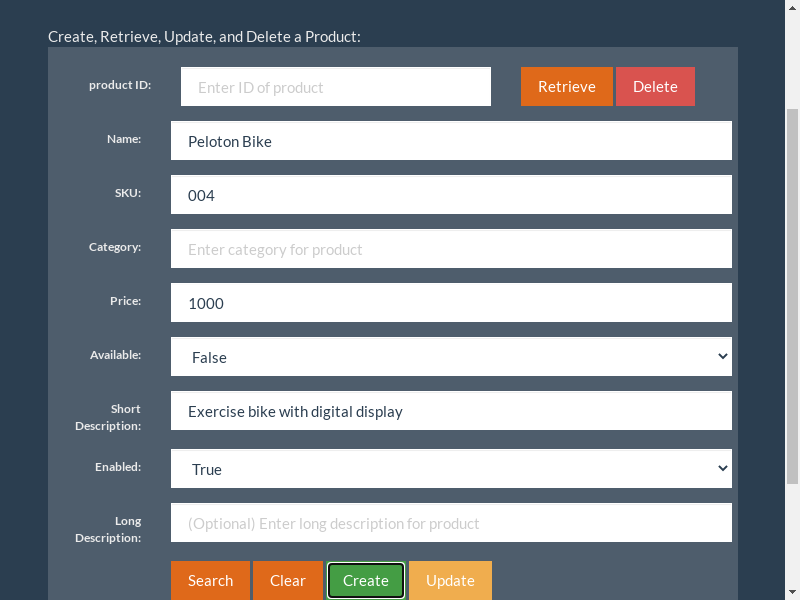
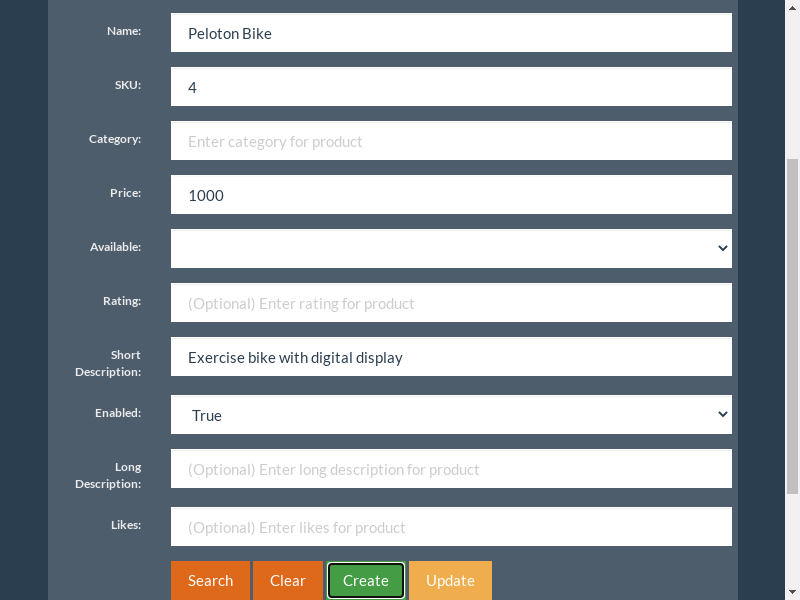
list and search BDD tests working

diff --git a/service/static/js/rest_api.js b/service/static/js/rest_api.js
@@ -14,6 +14,13 @@ $(function () {
         } else {
             $("#product_available").val("false");
         }
+        $("#product_sku").val(res.sku);
+        $("#product_short_description").val(res.short_description);
+        $("#product_available").val(res.available);
+        $("#product_price").val(res.price);
+        $("#product_rating").val(res.rating);
+        $("#product_long_description").val(res.long_description);
+        $("#product_likes").val(res.likes)
     }
 
     /// Clears all form fields
@@ -26,10 +33,10 @@ $(function () {
         $("#product_short_description").val("");
         $("#product_long_description").val("");
         $("#product_price").val("");
-        $("#product_rating").val("");
-        $("#product_stock_status").val("");
+        $("#product_rating").val(0);
+        $("#product_available").val("");
         $("#product_enabled").val("");
-        $("#product_likes").val("");
+        $("#product_likes").val(0);
     }
 
     // Updates the flash message area
@@ -51,7 +58,7 @@ $(function () {
         var long_description = $("#product_long_description").val();
         var price = $("#product_price").val();
         var rating = $("#product_rating").val();
-        var stock_status = $("#product_stock_status").val() == "true";
+        var available = $("#product_available").val() == "true";
         var enabled = $("#product_enabled").val() == "true";
         var likes = $("#product_likes").val();
 
@@ -62,10 +69,10 @@ $(function () {
             "short_description": short_description,
             "long_description": long_description,
             "price": price,
-            "rating": rating,
-            "stock_status": stock_status,
+            "rating": parseInt(rating),
+            "available": available,
             "enabled": enabled,
-            "likes": likes
+            "likes": parseInt(likes)
         };
 
         var ajax = $.ajax({
@@ -192,6 +199,7 @@ $(function () {
         var name = $("#product_name").val();
         var category = $("#product_category").val();
         var available = $("#product_available").val() == "true";
+        var rating = $("#product_rating").val();
 
         var queryString = ""
 
@@ -210,6 +218,13 @@ $(function () {
                 queryString += '&available=' + available
             } else {
                 queryString += 'available=' + available
+            }
+        }
+        if (rating) {
+            if (queryString.length > 0) {
+                queryString += '&rating=' + rating
+            } else {
+                queryString += 'rating=' + rating
             }
         }
 

diff --git a/service/static/index.html b/service/static/index.html
@@ -65,20 +65,20 @@
                 </div>
               </div>
               <div class="form-group">
-                <label class="control-label col-sm-2" for="product_stock_status">Stock Status:</label>
+                <label class="control-label col-sm-2" for="product_available">Available:</label>
                 <div class="col-sm-10">
-                  <select class="form-control" id="product_stock_status">
+                  <select class="form-control" id="product_available">
                       <option value="true" selected>True</option>
                       <option value="false">False</option>
                   </select>
                 </div>
               </div>
-              <!-- <div class="form-group">
+              <div class="form-group">
                 <label class="control-label col-sm-2" for="product_rating">Rating:</label>
                 <div class="col-sm-10">
-                  <input type="text" class="form-control" id="product_rating" placeholder="Enter rating for product">
+                  <input type="text" class="form-control" id="product_rating" placeholder="(Optional) Enter rating for product">
                 </div>
-              </div> -->
+              </div>
               <div class="form-group">
                 <label class="control-label col-sm-2" for="product_short_description">Short Description:</label>
                 <div class="col-sm-10">
@@ -100,12 +100,12 @@
                   <input type="text" class="form-control" id="product_long_description" placeholder="(Optional) Enter long description for product">
                 </div>
               </div>
-              <!-- <div class="form-group">
+              <div class="form-group">
                 <label class="control-label col-sm-2" for="product_likes">Likes:</label>
                 <div class="col-sm-10">
-                  <input type="text" class="form-control" id="product_likes" placeholder="Enter likes for product">
+                  <input type="text" class="form-control" id="product_likes" placeholder="(Optional) Enter likes for product">
                 </div>
-              </div> -->
+              </div>
               <div class="form-group">
                 <div class="col-sm-offset-2 col-sm-10">
                   <button type="submit" class="btn btn-primary" id="search-btn">Search</button>

diff --git a/features/steps/product_steps.py b/features/steps/product_steps.py
@@ -37,7 +37,7 @@ def step_impl(context):
             "category": row['category'],
             "short_description": row['short_description'],
             "price": row['price'],
-            "stock_status": row['stock_status'] in ['True', 'true', '1'],
+            "available": row['available'] in ['True', 'true', '1'],
             "enabled": row['enabled'] in ['True', 'true', '1']
             }
         payload = json.dumps(data)
